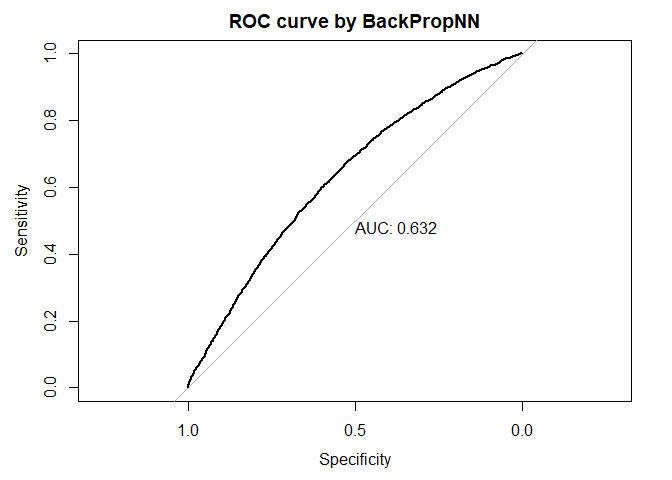
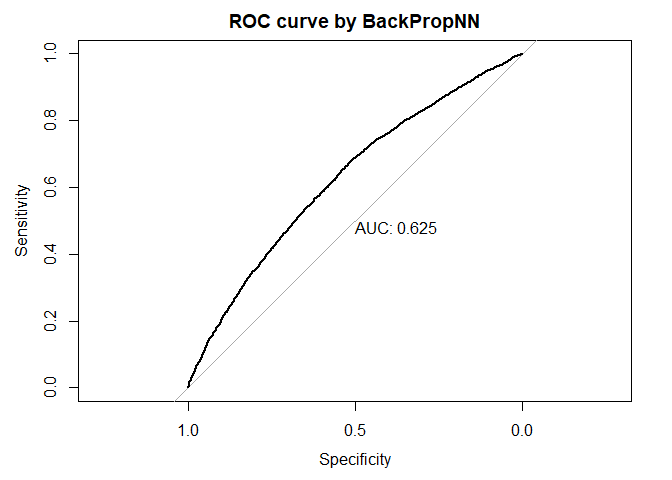
Improved vignette and README.

diff --git a/README.md b/README.md
@@ -96,7 +96,7 @@ nn_model_nnet <- nnet::nnet(X,Y,size=h, trace=FALSE)
 ``` r
 plot(nn_model)
 #> Setting levels: control = 0, case = 1
-#> Setting direction: controls > cases
+#> Setting direction: controls < cases
 #> Setting levels: control = 0, case = 1
 #> Setting direction: controls < cases
 ```
@@ -107,8 +107,8 @@ plot(nn_model)
     #> Call:
     #> roc.default(response = data[, ncol(data)], predictor = nn_R_pred,     plot = TRUE, print.auc = TRUE, main = "ROC curve by R nnet")
     #> 
-    #> Data: nn_R_pred in 4983 controls (data[, ncol(data)] 0) < 5017 cases (data[, ncol(data)] 1).
-    #> Area under the curve: 0.6431
+    #> Data: nn_R_pred in 4920 controls (data[, ncol(data)] 0) < 5080 cases (data[, ncol(data)] 1).
+    #> Area under the curve: 0.6426
     summary(nn_model)
     #> $num_nodes
     #>  # of input nodes # of hidden nodes # of output nodes 
@@ -122,40 +122,40 @@ plot(nn_model)
     #> 
     #> $weight_bias_matrices
     #> $weight_bias_matrices$weight_input_hidden
-    #>               X1        X2
-    #> [1,] -0.02915079 -0.071855
-    #> [2,] -0.02915079 -0.071855
-    #> [3,] -0.02915079 -0.071855
-    #> [4,] -0.02915079 -0.071855
+    #>              X1         X2
+    #> [1,] 0.01818306 0.08968018
+    #> [2,] 0.01818306 0.08968018
+    #> [3,] 0.01818306 0.08968018
+    #> [4,] 0.01818306 0.08968018
     #> 
     #> $weight_bias_matrices$weight_hidden_output
-    #>           [,1]      [,2]      [,3]      [,4]
-    #> [1,] 0.0156597 0.0156597 0.0156597 0.0156597
+    #>            [,1]       [,2]       [,3]       [,4]
+    #> [1,] 0.01680826 0.01680826 0.01680826 0.01680826
     #> 
     #> $weight_bias_matrices$bias_hidden
-    #>             [,1]
-    #> [1,] 0.009039822
-    #> [2,] 0.009039822
-    #> [3,] 0.009039822
-    #> [4,] 0.009039822
+    #>            [,1]
+    #> [1,] 0.01024479
+    #> [2,] 0.01024479
+    #> [3,] 0.01024479
+    #> [4,] 0.01024479
     #> 
     #> $weight_bias_matrices$bias_output
-    #>            [,1]
-    #> [1,] 0.02453233
+    #>             [,1]
+    #> [1,] -0.06650967
     print(nn_model) # This will print the benchmark comparison for training part.
     #> Warning: Some expressions had a GC in every iteration; so filtering is disabled.
     #> # A tibble: 2 x 13
     #>   expression   min median `itr/sec` mem_alloc gc/se~1 n_itr  n_gc total~2 result
     #>   <bch:expr> <dbl>  <dbl>     <dbl>     <dbl>   <dbl> <int> <dbl> <bch:t> <list>
-    #> 1 BackPropNN  24.7   20.2      1         1        Inf     1    14   518ms <NULL>
-    #> 2 R nnet       1      1        3.79      6.82     NaN     7     0   958ms <NULL>
+    #> 1 BackPropNN  38.9   25.6      1         1        Inf     1    14   501ms <NULL>
+    #> 2 R nnet       1      1        5.53      6.82     NaN     7     0   634ms <NULL>
     #> # ... with 3 more variables: memory <list>, time <list>, gc <list>, and
     #> #   abbreviated variable names 1: `gc/sec`, 2: total_time
     #> $mse_comparison
     #>     MSE by R nnet MSE by BackPropNN 
-    #>         0.2345249         0.2500169
+    #>         0.2346527         0.2499971
 
-    # Running the benchmark comparison for predicting part.
+    # Running the benchmark comparison for prediction task.
     bench::mark("BackPropNN"=feed_forward(data, nn_model),
                 "R nnet" = as.numeric(stats::predict(nn_model_nnet,X, type="raw")),
                         relative = TRUE, check = FALSE)
@@ -163,8 +163,8 @@ plot(nn_model)
     #> # A tibble: 2 x 6
     #>   expression   min median `itr/sec` mem_alloc `gc/sec`
     #>   <bch:expr> <dbl>  <dbl>     <dbl>     <dbl>    <dbl>
-    #> 1 BackPropNN  780.   725.        1       1        1.28
-    #> 2 R nnet        1      1       629.      3.34     1
+    #> 1 BackPropNN  828.   706.        1       1        1.23
+    #> 2 R nnet        1      1       639.      3.34     1
 
 We see that a better AUC score is achieved by the BackPropNN package
 than R nnet, however a better mse is achieved by R nnet (achieving
@@ -185,7 +185,7 @@ nn_model_rcpp <- back_propagation_training_rcpp(i, h, o, learning_rate,
 nn_model_nnet <- nnet::nnet(X,Y,size=h, trace=FALSE)
 
 
-# Running the benchmark comparison for training part.
+# Running the benchmark comparison for training task.
 bench::mark("Original"=back_propagation_training(i, h, o, learning_rate,
                                           activation_func, data),
             "R nnet"=nnet::nnet(X,Y,size=h, trace=FALSE),
@@ -194,24 +194,24 @@ bench::mark("Original"=back_propagation_training(i, h, o, learning_rate,
                     relative = TRUE, check = FALSE)
 #> Warning: Some expressions had a GC in every iteration; so filtering is disabled.
 #> # A tibble: 3 x 6
-#>   expression   min median `itr/sec` mem_alloc `gc/sec`
-#>   <bch:expr> <dbl>  <dbl>     <dbl>     <dbl>    <dbl>
-#> 1 Original   93.9    72.0      1         1         Inf
-#> 2 R nnet      3.21   15.6      2.66      6.82      NaN
-#> 3 Rcpp        1       1       60.9       2.41      NaN
+#>   expression    min median `itr/sec` mem_alloc `gc/sec`
+#>   <bch:expr>  <dbl>  <dbl>     <dbl>     <dbl>    <dbl>
+#> 1 Original   135.   121.        1         1         Inf
+#> 2 R nnet       4.26   5.59      6.02      6.82      NaN
+#> 3 Rcpp         1      1       116.        2.41      Inf
 
-# Running the benchmark comparison for predicting part.
+# Running the benchmark comparison for prediction task.
 bench::mark("Original"=feed_forward(data, nn_model_original),
             "R nnet" = as.numeric(stats::predict(nn_model_nnet,X, type="raw")),
             "Rcpp"=feed_forward_rcpp(data, nn_model_rcpp),
                     relative = TRUE, check = FALSE)
 #> Warning: Some expressions had a GC in every iteration; so filtering is disabled.
 #> # A tibble: 3 x 6
-#>   expression     min median `itr/sec` mem_alloc `gc/sec`
-#>   <bch:expr>   <dbl>  <dbl>     <dbl>     <dbl>    <dbl>
-#> 1 Original   1383.   935.          1       2.77      Inf
-#> 2 R nnet        1      1         729.      9.23      Inf
-#> 3 Rcpp          2.71   2.62      304.      1         NaN
+#>   expression    min median `itr/sec` mem_alloc `gc/sec`
+#>   <bch:expr>  <dbl>  <dbl>     <dbl>     <dbl>    <dbl>
+#> 1 Original   962.   792.          1       2.77     8.36
+#> 2 R nnet       1      1         689.      9.23     7.00
+#> 3 Rcpp         2.94   3.17      240.      1        1
 ```
 
 We notice that for the training part, Rcpp version achieves best
